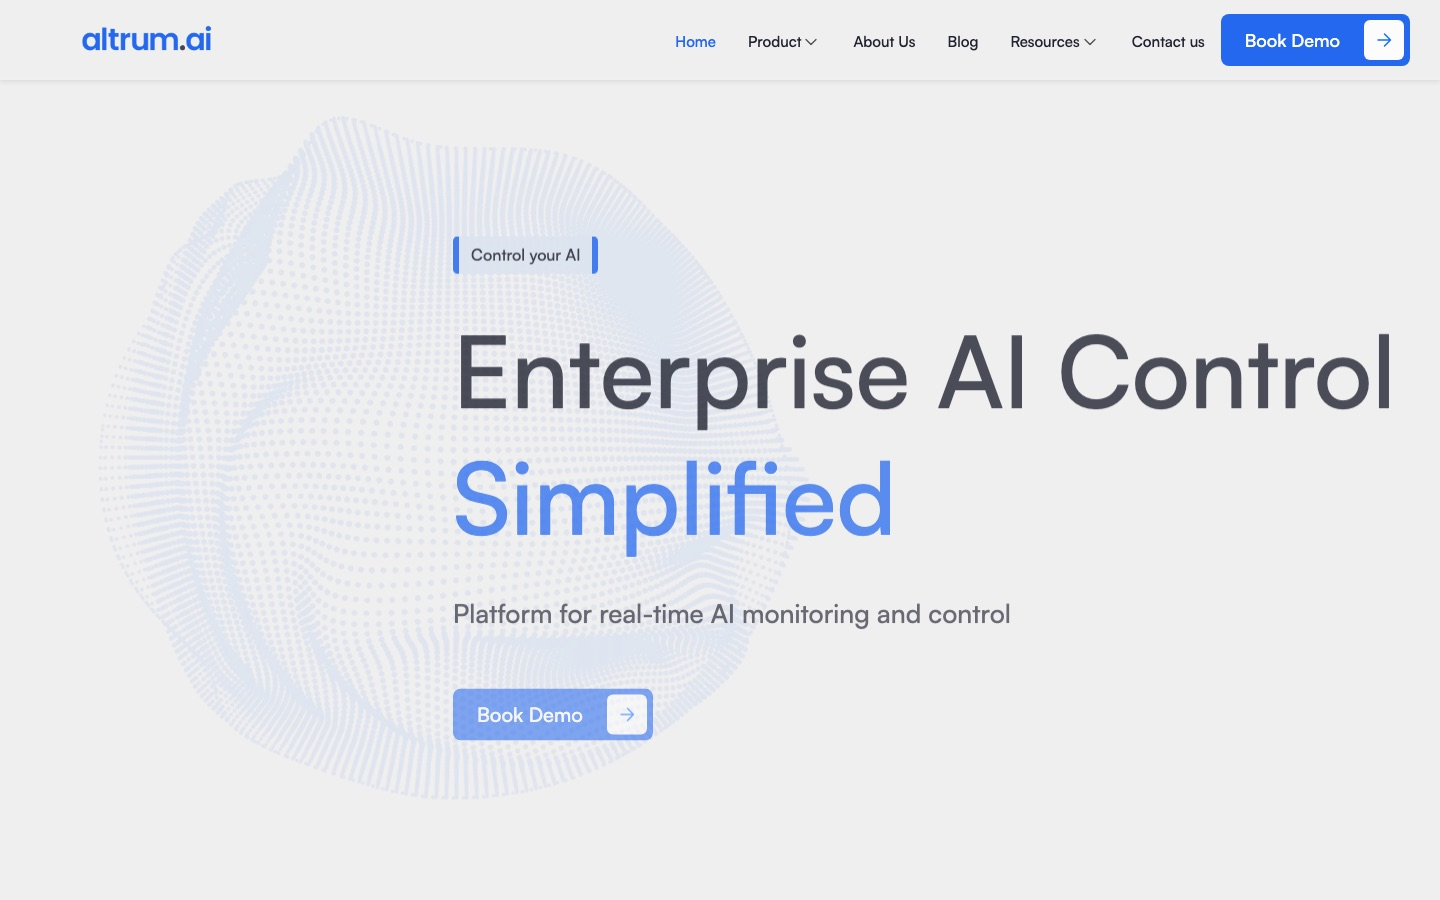
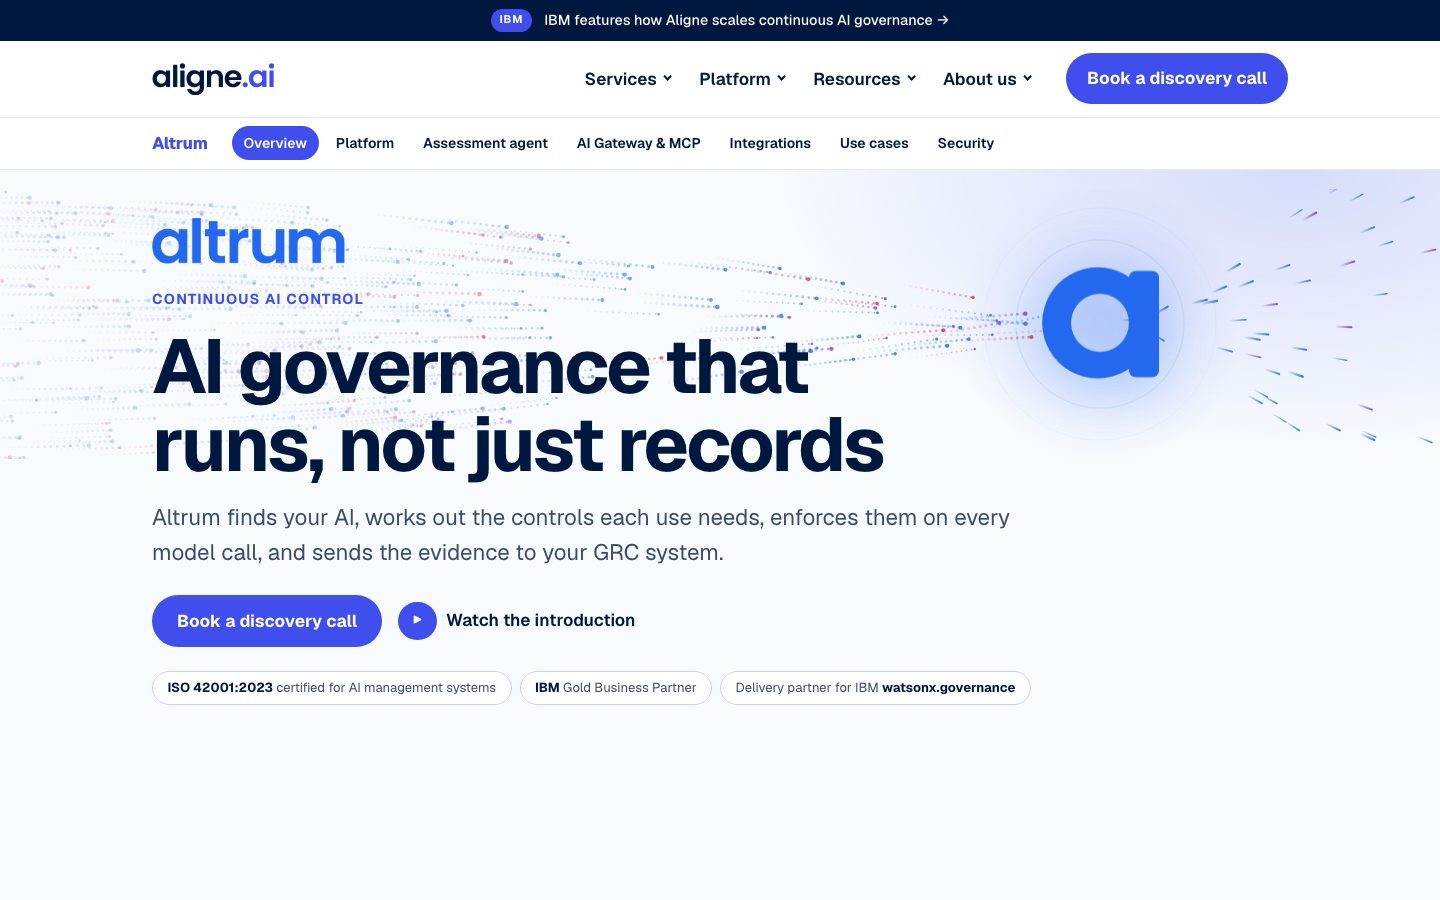
Rewrite site copy for freelance clients
- Hero: lead with "Designed in Figma. Built in Webflow or code." and drop
  the "becoming / learning" framing
- Add a Services section with four offers
- Aligne AI and AltrumAI case studies now describe the Astro + Cloudflare
  rebuild, with fresh screenshots of the live pages
- Remove placeholder notes from the World of Gears and Aligne case studies
- Case study label reads from a new `stack` field (default Webflow)

diff --git a/src/styles/global.css b/src/styles/global.css
@@ -240,6 +240,17 @@ nav.away{transform:translateY(-100%)}
 .site-links{display:flex;gap:18px;flex-wrap:wrap;margin-top:4px}
 @media (max-width:860px){.site{grid-template-columns:1fr;gap:28px}.site:nth-child(even) .site-visual{order:0}}
 
+/* services */
+.services{display:grid;grid-template-columns:repeat(2,1fr);gap:24px}
+.service{border:1px solid var(--line);border-radius:12px;background:var(--bg-2);padding:32px;display:grid;gap:14px;align-content:start;transition:border-color .2s}
+.service:hover{border-color:var(--line-2)}
+.service .n{font-family:var(--mono);font-size:12px;color:var(--accent)}
+.service h3{font-size:clamp(24px,2.6vw,32px);font-weight:800;line-height:1.05}
+.service p{color:var(--muted);font-size:15.5px;max-width:48ch}
+.service .ref{font-family:var(--mono);font-size:11.5px;color:var(--dim);border-top:1px solid var(--line);padding-top:14px;margin-top:4px}
+.services-note{margin-top:24px;color:var(--muted);font-size:15.5px}
+@media (max-width:760px){.services{grid-template-columns:1fr}.service{padding:24px}}
+
 /* web app pipeline */
 .app-card{border:1px solid var(--line);border-radius:12px;background:var(--bg-2);padding:40px;display:grid;gap:40px}
 .app-top{display:grid;grid-template-columns:1fr auto;gap:24px;align-items:start}
@@ -265,6 +276,7 @@ nav.away{transform:translateY(-100%)}
 /* contact */
 .contact{border-top:1px solid var(--line);padding-block:72px 32px;display:grid;gap:22px}
 .contact h2{font-size:clamp(36px,6vw,80px);font-weight:800;line-height:.98}
+.contact p{color:var(--muted);font-size:17px;max-width:52ch}
 .mail{display:flex;flex-wrap:wrap;gap:10px;align-items:center}
 .mail code{font-family:var(--mono);font-size:clamp(15px,2.2vw,20px);user-select:all;word-break:break-all}
 .mail button{border:1px solid var(--line-2);background:none;border-radius:6px;padding:7px 12px;font-family:var(--mono);font-size:11.5px;color:var(--muted)}

diff --git a/src/content.config.ts b/src/content.config.ts
@@ -1,12 +1,13 @@
 import { defineCollection, z } from 'astro:content';
 import { glob } from 'astro/loaders';
 
-// Website case studies (Webflow)
+// Website case studies (Webflow or code)
 const work = defineCollection({
   loader: glob({ pattern: '**/*.{md,mdx}', base: './src/content/work' }),
   schema: z.object({
     title: z.string(),
     eyebrow: z.string(),
+    stack: z.string().default('Webflow'),
     summary: z.string(),
     order: z.number(),
     url: z.string().url().optional(),

diff --git a/src/content/work/aligne-ai.md b/src/content/work/aligne-ai.md
@@ -1,41 +1,43 @@
 ---
-title: A CMS the marketing team runs without me
+title: From Webflow to code, with a CMS the sales team runs
 eyebrow: Aligne AI · Responsible AI consultancy
-type: webflow
-summary: Services, events, blogs and a glossary, all driven by Webflow collections, so new content never needs a designer.
-tags: [UI design, SEO]
+type: code
+stack: Astro
+summary: I first built Aligne's site in Webflow, then rebuilt it in Astro on Cloudflare. The sales team now publishes blogs, events and case studies themselves through a Git-based CMS.
+tags: [Astro, Cloudflare, Pages CMS]
 order: 2
 size: wide
-thumb: { kind: cms, labels: [Services, Events, Blogs, Glossary], tone: blue }
+thumb: { kind: cms, labels: [Blogs, Events, Case studies, Authors], tone: blue }
 url: https://www.aligne.ai/
 snapshot:
-  - { label: Role, value: Design + Webflow build }
-  - { label: Tool, value: Webflow }
+  - { label: Role, value: Design + build }
+  - { label: Stack, value: Astro · Cloudflare }
+  - { label: CMS, value: Pages CMS (Git-based) }
   - { label: Sector, value: Responsible AI }
-  - { label: Content, value: CMS-driven }
 structureTitle: CMS structure
 structure:
-  - { name: Services, detail: name · summary · CTA }
-  - { name: Events, detail: date · speaker · link }
-  - { name: Blogs, detail: author · tags · body }
-  - { name: Glossary, detail: term · definition }
-structureNote: Collections read from the public site. Replace with the real schema.
+  - { name: Blogs, detail: title · author · category · body }
+  - { name: Events, detail: date · time · format · venue }
+  - { name: Case studies, detail: client · category · body }
+  - { name: Authors, detail: name · photo }
+structureNote: Each collection is a folder of Markdown files in GitHub. Saving in the CMS makes a commit, and Cloudflare rebuilds the site.
 ---
 
 ## Problem
 
-Aligne works in a field that changes every month. The team needs to publish events, articles and definitions every week, without waiting on a designer or a developer.
+Aligne needed one site for the consultancy and its Altrum product pages, with one shared design. The sales team also needed to publish blogs, events and case studies every week without waiting on a designer or a developer.
 
 ## Process
 
-I started from the content, not the layout. I listed every type of page the team would publish, then turned each one into a Webflow collection with only the fields they actually fill in.
+I moved the site from Webflow to Astro, page by page. First came a shared design system (tokens, header, footer, sections and buttons) used by both the Aligne and Altrum pages. Then each content type became a folder of Markdown files in GitHub, edited through Pages CMS, a simple editor that sits on top of the repository.
 
 ## Key decisions
 
-1. **One template per collection.** New content never needs a new layout.
-2. **Glossary terms link from blog posts.** Readers get definitions in one click, and search engines see a well-linked site.
-3. **Shared components with the sister product site**, so both brands feel like one family.
+1. **Static-first on Cloudflare.** Pages are built ahead of time and served from Cloudflare's network, so they load fast.
+2. **A private staging site.** Changes go to staging first. Going live is a separate, approved step.
+3. **Forms, not code, for the sales team.** Pages CMS gives them a form for each blog, event, case study and author. They never touch Git or code.
+4. **One design system for two brands.** Aligne and Altrum share tokens and components, so one change updates both.
 
 ## Outcome
 
-> Add one number here: pages published since launch, organic traffic, or time to launch.
+The site is live at aligne.ai. The sales team adds blogs, events and case studies themselves, and new pages are built from the same components.

diff --git a/src/content/work/altrum-website.md b/src/content/work/altrum-website.md
@@ -1,34 +1,34 @@
 ---
-title: Explaining enterprise AI control in one scroll
-eyebrow: AltrumAI · Website
-type: webflow
-summary: The public website for AltrumAI. The web app itself has its own UX case studies in the portfolio.
+title: Explaining enterprise AI control to non-engineers
+eyebrow: AltrumAI · Product pages
+stack: Webflow → Astro
+summary: The public pages for AltrumAI, first built in Webflow and now rebuilt in code as part of aligne.ai. The web app itself has its own UX case studies in the portfolio.
 tags: [Messaging]
 order: 1
 size: half
-thumb: { kind: window, labels: [altrum.ai], tone: paper }
-url: https://www.altrum.ai/
+thumb: { kind: window, labels: [aligne.ai/altrum], tone: paper }
+url: https://www.aligne.ai/altrum/
 snapshot:
   - { label: Role, value: Web design + build }
-  - { label: Tool, value: Webflow }
+  - { label: Tool, value: Webflow, then Astro }
   - { label: Sector, value: AI governance }
-  - { label: Scope, value: Marketing site }
-structureTitle: CMS structure
-structure:
-  - { name: Blog, detail: title · category · body }
-  - { name: Resources, detail: guide · gated file }
+  - { label: Scope, value: Product pages }
 ---
 
 ## Problem
 
 A technical platform has to make sense to risk and compliance leaders, who are not engineers, in the first few seconds.
 
-## Key decisions
+## Version 1: Webflow
 
-1. **Problems before features.** Four risk cards come first, so the reader recognises their situation.
+1. **Problems before features.** Four risk cards came first, so the reader recognised their situation.
 2. **A gated executive guide** as the main lead capture.
-3. **Same design language as the consultancy site**, so the two brands support each other.
+3. **Same design language as the consultancy site**, so the two brands supported each other.
+
+## Version 2: code
+
+The product pages now live inside aligne.ai, built in Astro from the same design system as the consultancy pages, and altrum.ai redirects there. A sub-navigation splits the product into Overview, Platform, Assessment agent, AI Gateway & MCP, Integrations, Use cases and Security, so each buyer can go straight to the part they care about.
 
 ## Outcome
 
-This study covers the website. For the product UX, see the [portfolio](/portfolio).
+This study covers the public pages. For the product UX, see the [portfolio](/portfolio).

diff --git a/README.md b/README.md
@@ -1,6 +1,6 @@
 # sidhantsardar.com
 
-Portfolio of Sidhant Sardar — Figma & Webflow expert, becoming a design engineer.
+Portfolio of Sidhant Sardar — websites designed in Figma and built in Webflow or code.
 
 Designed in Figma, built with Claude Code and [Astro](https://astro.build).
 
@@ -14,7 +14,7 @@ npm run dev
 ## Content
 
 - `src/content/portfolio/` — UX case studies (MDX)
-- `src/content/work/` — website case studies
+- `src/content/work/` — website case studies (`stack` sets the label, default Webflow)
 - `src/content/writing/` — blog posts
 
 ## Deploy

diff --git a/src/content/work/world-of-gears.md b/src/content/work/world-of-gears.md
@@ -18,7 +18,6 @@ structure:
   - { name: Services, detail: title · outcome · steps }
   - { name: Toolbox, detail: resource · type · file }
   - { name: Team, detail: name · role · bio }
-structureNote: Collections read from the public site. Replace with the real schema.
 ---
 
 ## Problem
@@ -33,4 +32,4 @@ ESG and human-rights due diligence is complex. Buyers need to see quickly that t
 
 ## Outcome
 
-> Add one number here: toolbox downloads, leads, or launch time.
+Live at worldofgears.com. I still work with the team on new pages and content.
